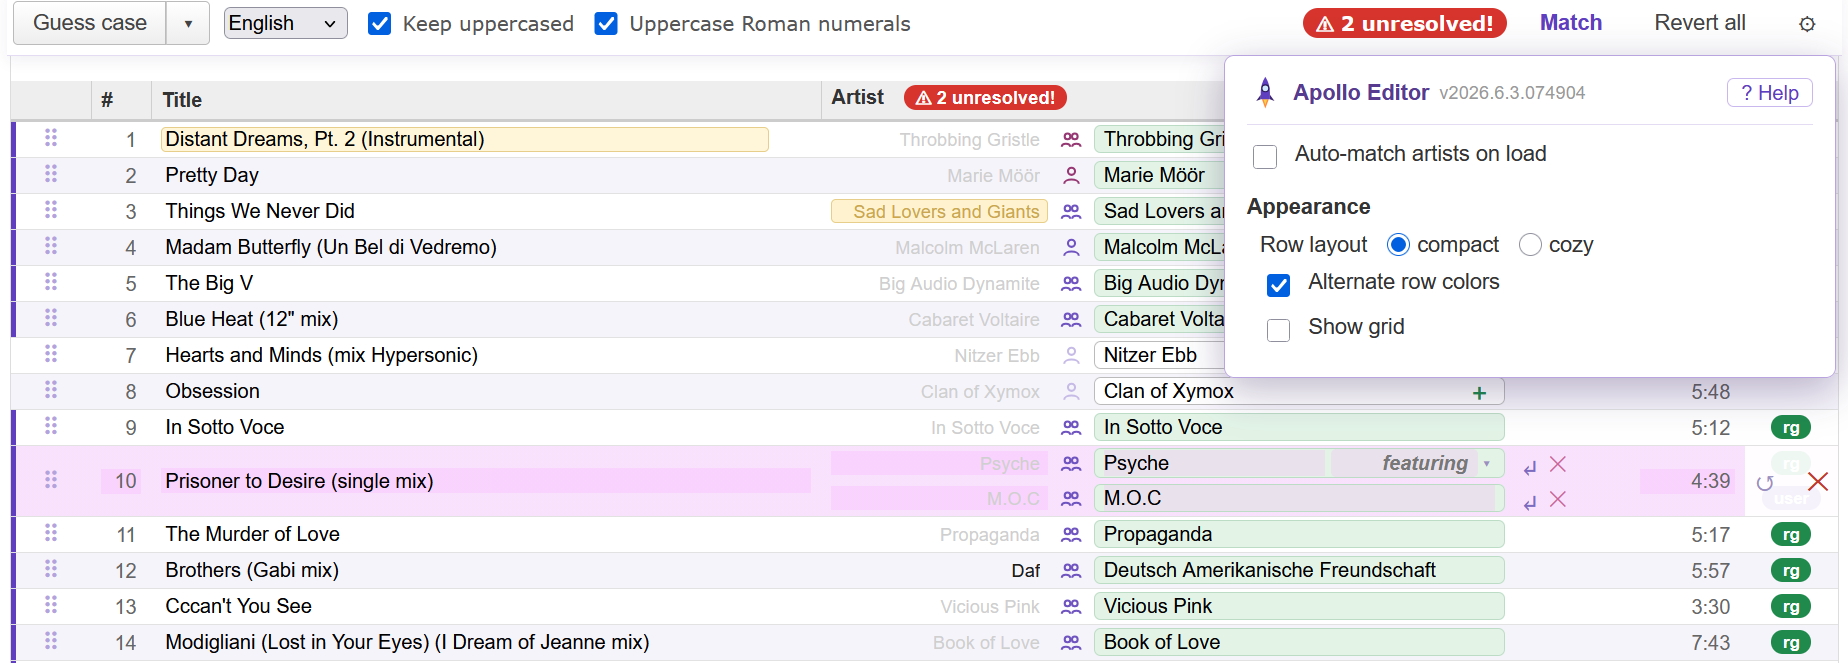
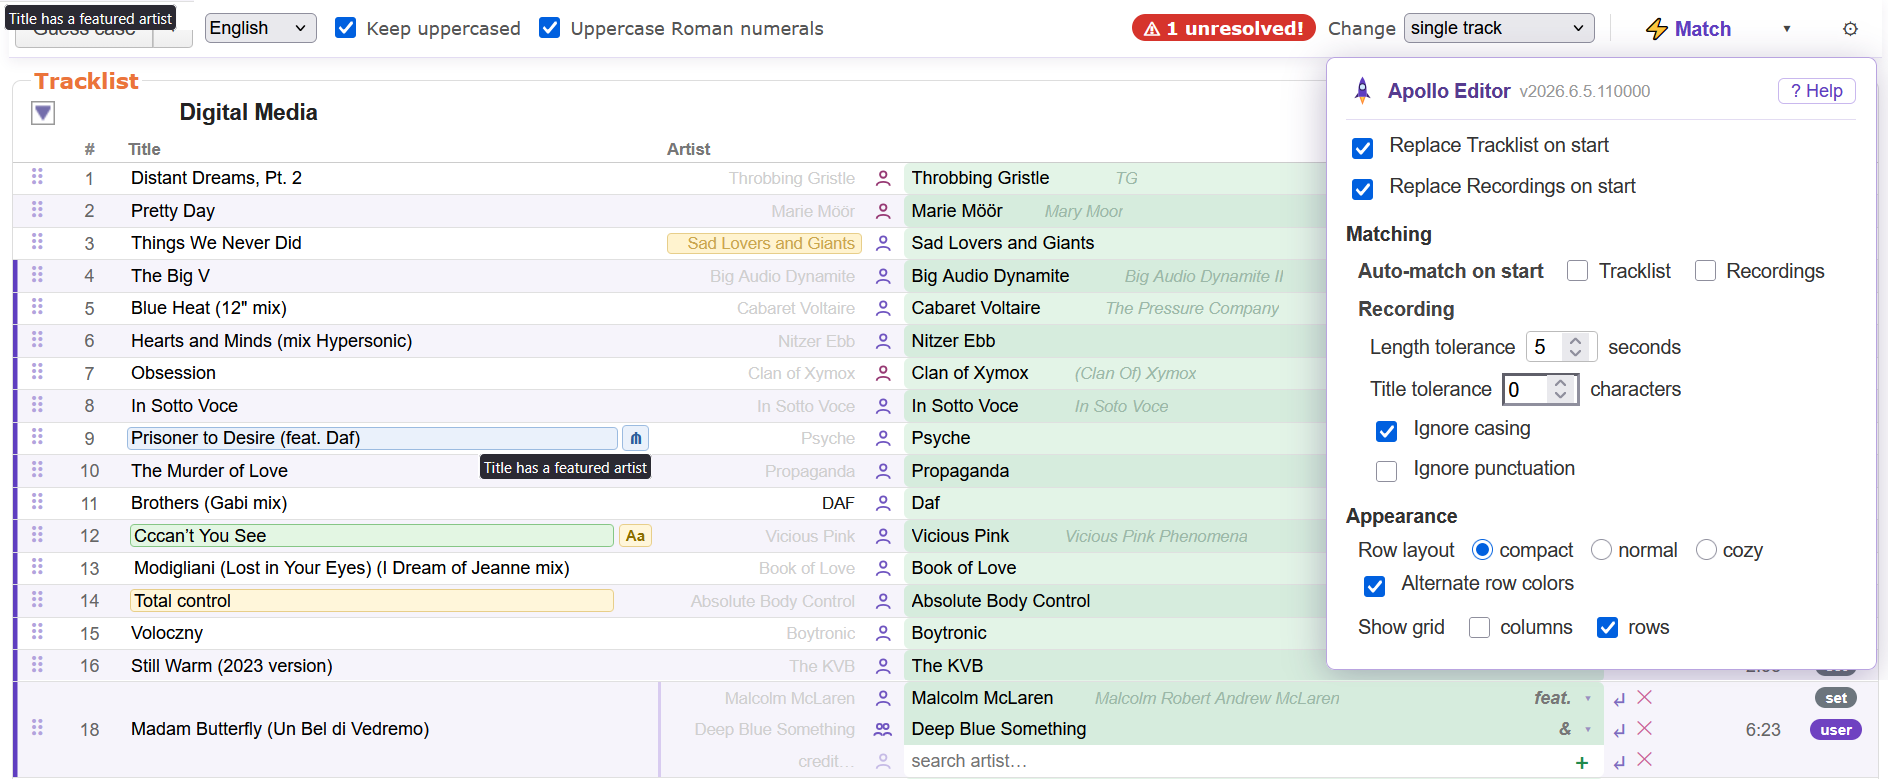
readme

diff --git a/userscripts/apollo_editor/README.md b/userscripts/apollo_editor/README.md
@@ -1,59 +1,86 @@
 # Apollo Editor <img src="icon.svg" align="left" width="48" height="48">
 
-UI and tools for advanced adding and editing of a MusicBrainz release — both its **tracklist** (track titles, artists, lengths) and its **recordings**.
+UI and tools for advanced adding and editing of a MusicBrainz release.
 
 - Install: [stable](https://raw.githubusercontent.com/majkinetor/musicbrainz-userscripts/refs/heads/stable/userscripts/apollo_editor/apollo_editor.user.js) or [latest](https://raw.githubusercontent.com/majkinetor/musicbrainz-userscripts/refs/heads/main/userscripts/apollo_editor/apollo_editor.user.js)
 
-<img width="1000" src="./screenshot.png" />
+<img width="500" src="./screenshot.png" /> <img width="500" src="./screenshot2.png" />
 
 https://github.com/user-attachments/assets/b668f472-c3cc-4487-913c-50ff1d950c5b
 
-When you add a release (especially via an import), each track's artist usually arrives as plain **text with no MBID**, and the recordings are unset. Linking them one by one — searching, picking, occasionally splitting `A feat. B` into two credits — is the slowest part of adding a release. Apollo Editor does the whole tracklist and the whole recording set in one pass and lets you apply the confident matches with one click.
+When you add a release, each track's artist may be set as **plain text with no MBID**, and the recordings are unset. Linking them one by one — searching, picking, occasionally splitting *A feat. B* into two credits — is the slowest part of adding a release. Apollo Editor does the whole tracklist and recording set in one pass and lets you apply the confident matches with one click.
 
-It replaces the native **Tracklist** and **Recordings** editors with two clean, consistent tables. Each takeover is optional and you can flip back to the native editor at any time with the **Original / Apollo** button — see _Replace … on start_ in the settings.
+It replaces the native **Tracklist** and **Recordings** editors with two clean, consistent tables. Each takeover is optional and you can flip back to the native editor at any time with the **Original / Apollo** button.
 
 ## Features
 
-- **Auto-match artists and recordings** in one click. The whole release group is pulled in a **single request**, so a full release matches near-instantly.
-- **Recordings tab**: side-by-side _Track ↔ Recording_ comparison with a confidence dot per row and inline highlighting of the fields that differ.
-- **Recording picker** (click any recording): MusicBrainz suggestions, free-form search (`show all` for a relaxed title-only search), `＋ new recording`, linkable "appears on" releases — draggable and dockable.
-- **Configurable match tolerance** — length (seconds), title (edit distance), ignore casing, ignore punctuation. A _credited-as_ name is never treated as a different artist.
-- Aliases shown in search results and on resolved artists, a direct **artist link**, and a quick **create-artist** button.
-- **Split artist** on a join phrase; **join-phrase selector**; apply an artist / credited-as change to a single track or **all matching tracks**.
-- **Table customization** — resizable columns, alternate row colors, grid (columns / rows), and `compact / normal / cozy` layouts, applied to both tables.
-- Reorder tracks within a medium with the ⠿ handle, keyboard navigation, highlighting of changed rows.
-- **Revert** or **Clear all** for a single track or the whole table (recordings or tracklist).
-- Tools relocated to one always-visible **Tool** button, plus new tools.
+- **Tracklist editor**
+    - Artist picker with confidence highlight
+        - Option to change all appearances of selected artist (or its *Credited as* field) with highlight
+    - Split artist with join-phrase selector
+    - Artist aliases in search results and in selection
+    - Icon representing artist type and direct link
+    - Track actions: create, split, guess case
+        - Right click to execute action on all tracks
+    - Reorder tracks within a medium with the ⠿ handle
+    - Keyboard navigation
+    - Highlighting of changed rows and split artists
+- **Recordings editor**
+    - Side-by-side _Track ↔ Recording_ comparison with a confidence circle per row and inline highlighting of the fields that differ.
+    - Recording picker with MusicBrainz suggestions, free-form search, linked "appears on" releases, confidence highlights
+- **[Matching](#matching)**
+    - Auto-match artists and recordings in one click
+    - Release group consideration for quick and precise matching
+    - Configurable match tolerance — length (seconds), title (edit distance), ignore casing and punctuation
+- **[Toolbar](#toolbar)**
+    - Tools relocated to always-visible **Tool** button, with some new tools
+    - Revert/Clear for a single track or the whole table
+- **[Customization](#settings)** — resizable columns, alternate row colors, grid, multiple layouts
 
 ## Matching
 
-Apollo matches in two places — track **artists** (Tracklist tab) and track **recordings** (Recordings tab). Both work the same way: a **Match** button (or _Auto-match on start_ in the settings), a per-row **confidence dot**, and the single best candidate applied automatically while anything uncertain is left for you.
+Apollo can automatically match unresolved **artists** and **recordings**. Both work the same way: a *Match* button, a per-row **confidence**, and the single best candidate applied automatically while anything uncertain is left out. If _Auto-match on start_ is enabled in the [settings](#matching-1), matching will be automatically started on entering add/edit release page.
 
-**Confidence** is shown by the dot colour: 🔵 exact → 🟢 matches (within tolerance) → 🟡 low → 🟠 very low → 🔴 extremely low, graded by how many fields differ (title, artist, length) and how far off the length is. An **exact** match is one that needs none of the relaxation options below — it's the ideal candidate and auto-match prefers it; 🟢 means it matched only thanks to a tolerance. The **ignore below** selector sets the worst confidence auto-match will still link (e.g. _very low_ links anything better, _nothing_ links everything).
+### Artist matching
 
-### Track artists (Tracklist)
+Apollo resolves each unmatched track artist in two stages, in order:
 
-For every unresolved artist it tries, in order:
+1. Sibling releases (same release group) — it pulls the per-track credits (with MBIDs) from other versions of the album and matches by track title. Other editions usually credit the same songs to the same artists, so this resolves most cases at the highest confidence — especially various-artists compilations.
+2. Name search — for anything siblings don't cover, it searches the MusicBrainz artist index by the credited name. An exact name is taken as high-confidence only when it's unambiguous; artists that share exact name are left out.
 
-1. **Sibling releases in the same release group** — other versions of the album usually credit the same songs to the same artists. Apollo pulls their per-track credits (with MBIDs) and matches by title. Highest confidence; resolves most various-artists compilations outright.
-2. **Name search** — the MusicBrainz artist index for anything siblings don't cover. An exact name is taken as high-confidence only when it's **unambiguous**; when several artists share that exact name, one has to be picked manually.
+Each resolved artist is tagged by how it matched (release-group, name, pre-existing, or manual).
 
-Each resolved artist is tagged by how it was matched (release-group, name, pre-existing, or manual).
+**Confidence levels**:
 
-### Recordings
+1. 🟢 Green colored artist box means the artist was matched confidently (release-group or unambiguous exact name).
+1. ⚪ White search box — unresolved or low-confidence, left for user to pick; these are what the "N unresolved" counter counts and what clicking that badge jumps to.
+
+### Recording matching
 
 Apollo fetches **every recording in the release group in one request**, indexes them by title, and matches each track **locally** — choosing the highest-confidence candidate (title + artist + length). It only falls back to a per-track MusicBrainz lookup for the few tracks the release group can't satisfy. A full release therefore matches in roughly one fetch rather than one request per track.
 
-Anything auto-match can't resolve confidently you set by hand: click a recording cell to open the picker, which offers MusicBrainz's own suggestions, a free-form search, and `＋ new recording`. The same colour code and the field highlights tell you exactly how a candidate differs from the track.
+A *Credited as* values on track and recording don't influence matching.
 
-### Matching options (⚙ → Matching)
+**Confidence levels**:
 
-- **Length tolerance** (seconds) — a length gap within N seconds counts as a match (MB lengths jitter; sub-second/off-by-one differences are not real mismatches).
-- **Title tolerance** (characters) — allow up to N differing characters in the title (edit distance) and still call it a match. `0` = exact.
+| Color |     Meaning      |                               Description                               |
+| :---: | ---------------- | ----------------------------------------------------------------------- |
+|   🔵   | Exact            | All fields are the same                                                 |
+|   🟢   | Within tolerance | Matches within tolerance defined in Options                             |
+|   🟡   | Low              | A single field differs, or the length gap is 3–15s (a near-miss)        |
+|   🟠   | Very low         | Two fields differ or the length gap alone is >15s (substantially wrong) |
+|   🔴   | Extremely low    | All three differ and the length gap is >10s (almost certainly wrong)    |
+
+The *Ignore at* option in the recording toolbar sets the confidence at which auto-match will stop linking recordings.
+
+### Matching options
+
+Setup matching options in ⚙ → Matching:
+
+- **Length tolerance** (seconds) — a length gap within N seconds counts as a match. Use `0` for exact.
+- **Title tolerance** (characters) — allow up to N differing characters in the title (edit distance) and still call it a match. Use `0` for exact.
 - **Ignore casing** — case / accent / spacing-only differences don't count.
-- **Ignore punctuation** — `&` → `and` and brackets, quotes, dashes and dots are stripped before comparing.
-
-A **credited-as** name (the same artist entity credited under a different name) is always treated as a match, never an artist mismatch.
+- **Ignore punctuation** — `&` → `and`, brackets, quotes, dashes and dots are stripped before comparing.
 
 ## Tools
 
@@ -63,3 +90,49 @@ Besides the integrated tools, there are a few new ones:
 
 - **Search & Replace** — search a string within track titles and replace it. Clicking the button starts a fresh session with any existing parameters applied and cleared.
 - **Resize Columns** — set column sizes to predefined variants (auto-fit, centered, default).
+
+## Toolbar
+
+| Control | Default | What it does |
+|---|---|---|
+| **Change** | all matching tracks | Apply edit/selection to just the edited track or propagate to every track with the same credit |
+| **⚡ Match** | — | Match all still-unresolved track artists or recordings (used when *Auto-match on start* is off). |
+| **▾** | — | **↺ Revert all** — every track back to page-load state<br>**✕ Clear all** — empty artist of every track|
+| **Tool** | last used | A single always-visible button holding all the tools. The last tool used becomes the default; tools with parameters show them inline. |
+| **Cutoff** | 🟠 very low | Matches only records at or above the chosen confidence level and leave other unmatched |
+
+## Settings
+
+Opened using the **⚙** button on the [toolbar](#toolbar).
+
+Settings are saved in the browser (localStorage) and persist across releases.
+
+### Replace … on start
+
+On page load, swaps the native table editor for the Apollo table. The **Original / Apollo** button still toggles it anytime — this only sets the *initial* state.
+
+### Matching
+
+| Option | Default | What it does |
+|---|---|---|
+| **Auto-match on start**| On<br>Off | **Tracklist** - Matches artists automatically when the page loads<br>**Recordings** - Matches recordings automatically when the page loads|
+
+### Appearance
+
+Applied to **both** tables (Tracklist and Recordings).
+
+| Option | Default | What it does |
+|---|---|---|
+| **Row layout** | normal | Row density: `compact` (tight) · `normal` · `cozy` (airy). |
+| **Alternate row colors** | Off | Tints every other row (and deepens the matched-box green on alternate rows). |
+| **Show grid → columns** | Off | Vertical separators between columns. |
+| **Show grid → rows** | On | Horizontal lines between tracks. |
+
+## Persistence
+
+These are remembered automatically as you use the UI:
+
+- **Column widths** — drag a column border to resize; reset/auto-fit via the **Resize Columns** tool.
+- **Suggestions collapsed** — the picker remembers whether its *suggestions* section is collapsed.
+- **Last tool used** — becomes the default action of the **Tool** button.
+- **Apply mode**, **Ignore at**, and all dialog options above — saved on change.
